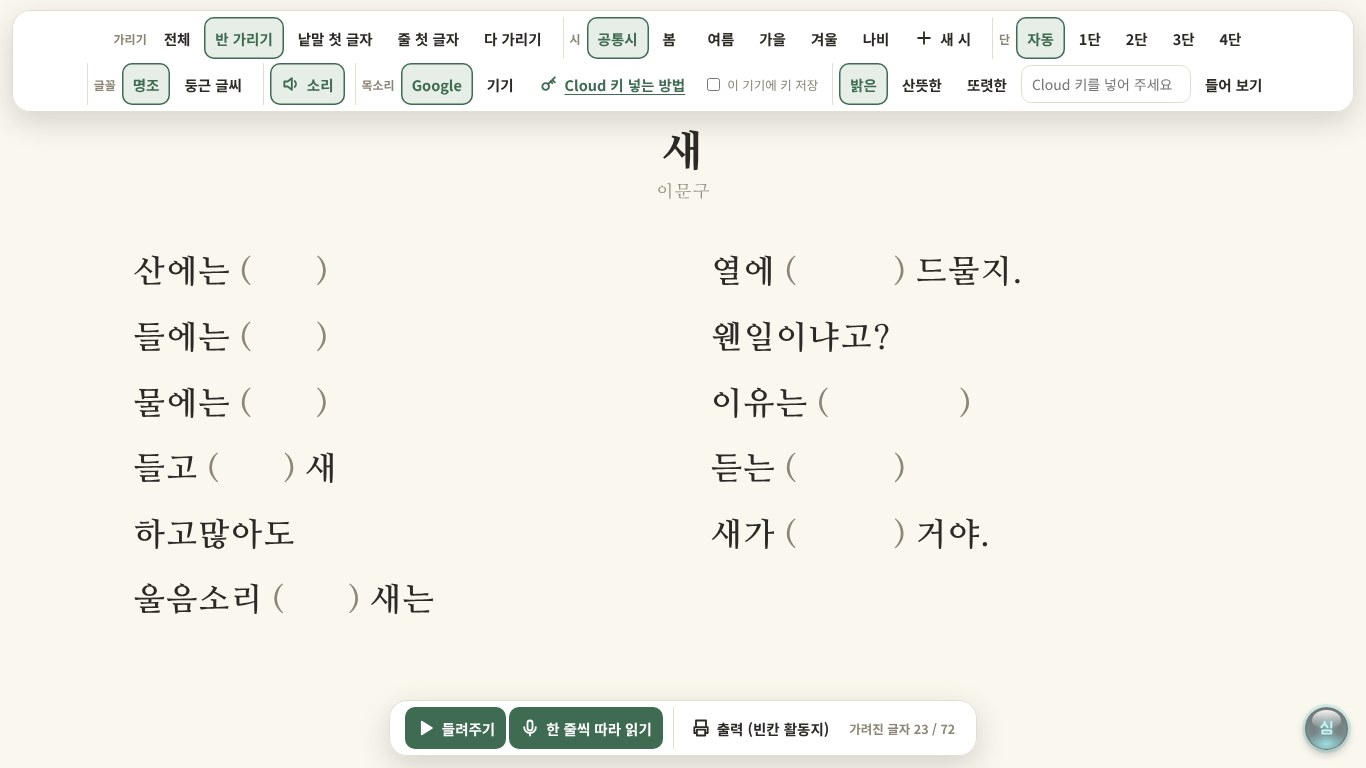
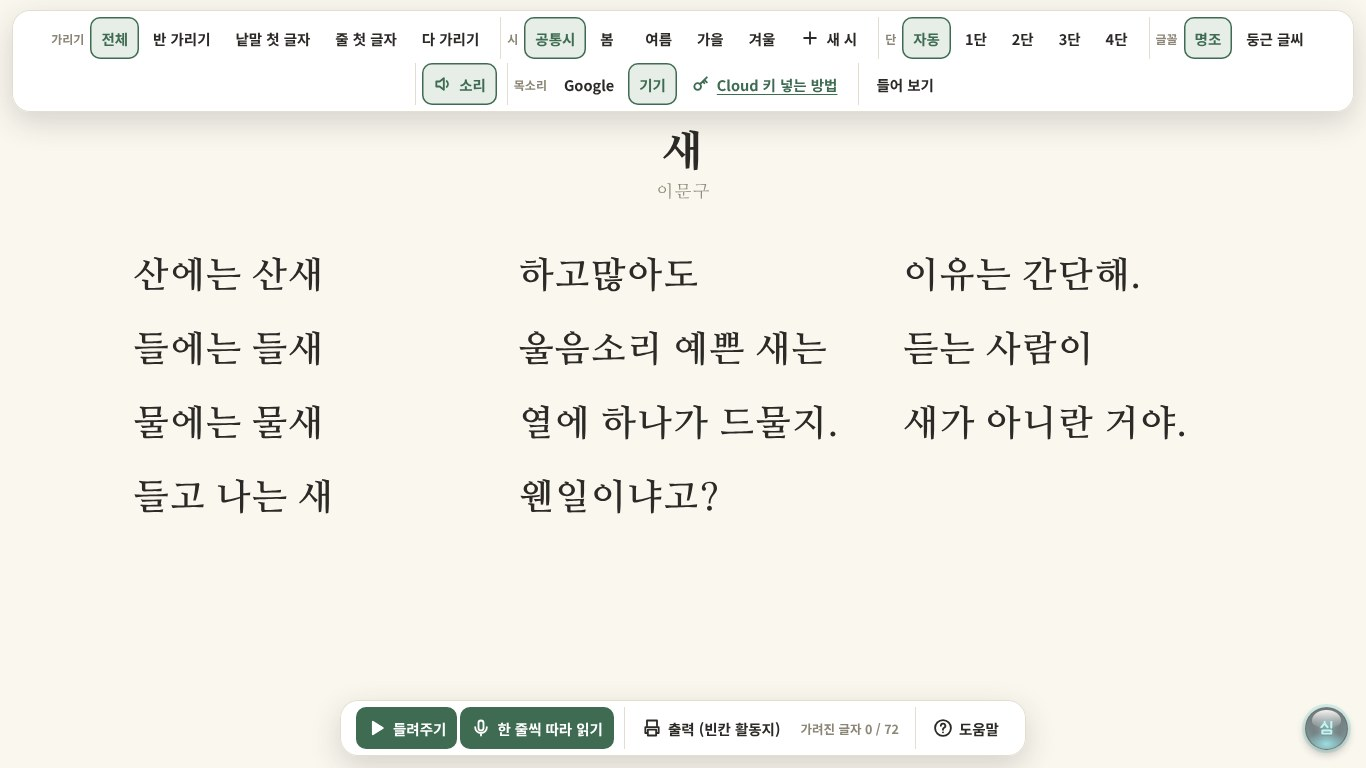
Add files via upload

diff --git a/004/poem-recite.html b/004/poem-recite.html
@@ -139,6 +139,20 @@ body.admin #adminBtn{opacity:.6;border-color:rgba(10,20,26,.8);
   #printArea .pline{line-height:2.1}
   #printArea .reading,#printArea .echo{background:none;box-shadow:none}
 }
+/* ---------- 도움말: 말풍선 둘러보기 ---------- */
+#tour{position:fixed;inset:0;z-index:70;display:none}
+#tour.show{display:block}
+#tourHole{position:fixed;border-radius:14px;box-shadow:0 0 0 9999px rgba(43,42,38,.55);transition:all .25s ease;pointer-events:none}
+#tourTip{position:fixed;width:min(340px,calc(100% - 24px));background:#fff;color:var(--ink);border-radius:16px;box-shadow:0 14px 40px rgba(0,0,0,.28);padding:16px 18px 12px;transition:top .25s ease,left .25s ease;font-family:var(--f-body)}
+#tourTip::before{content:"";position:absolute;left:var(--ax,40px);width:16px;height:16px;background:#fff;transform:rotate(45deg)}
+#tourTip.below::before{top:-7px} #tourTip.above::before{bottom:-7px}
+#tourTip h4{margin:0 0 6px;font-size:16px;font-weight:800;color:var(--accent)}
+#tourTip p{margin:0;font-size:14.5px;line-height:1.6}
+.tour-foot{display:flex;align-items:center;justify-content:space-between;margin-top:12px}
+.tour-foot span{font-size:12.5px;color:var(--ink-soft);font-weight:700}
+.tour-foot div{display:flex;gap:6px}
+.tour-foot button{border:0;border-radius:10px;min-height:40px;padding:6px 14px;font-weight:700;font-size:14px;background:var(--paper);color:var(--ink)}
+.tour-foot button.next{background:var(--accent);color:#fff}
 @media (prefers-reduced-motion:reduce){*{transition:none!important}}
 /* ---------- 빠뜨린 곳 알려 주기: 빨간 테두리 스포트라이트 + 말풍선 (번쩍임 없음) ---------- */
 #spot{position:fixed;z-index:90;pointer-events:none;border-radius:14px;display:none;box-shadow:0 0 0 4px #E5484D,0 0 0 9999px rgba(15,20,28,.45);transition:left .2s ease,top .2s ease,width .2s ease,height .2s ease}
@@ -162,6 +176,8 @@ body.admin #adminBtn{opacity:.6;border-color:rgba(10,20,26,.8);
 
 <div class="dock" id="dockTop"></div>
 <div class="dock" id="dockBot"></div>
+<div id="tour"><div id="tourHole"></div><div id="tourTip" class="below"><h4 id="tourTitle"></h4><p id="tourText"></p>
+  <div class="tour-foot"><span id="tourStep"></span><div><button type="button" id="tourEnd">그만</button><button type="button" class="next" id="tourNext">다음</button></div></div></div></div>
 <button id="adminBtn" type="button" aria-label="관리"><span class="ab-label" id="abLabel">charum</span></button>
 
 <div class="modal-back" id="modalBack">
@@ -222,7 +238,8 @@ const ICON={
   sndOff:'<svg class="ic" viewBox="0 0 24 24"><path d="M4 9h4l5-4v14l-5-4H4z"/><path d="M17 9.5l5 5M22 9.5l-5 5"/></svg>',
   gear:'<svg class="ic" viewBox="0 0 24 24"><path d="M4 7h10M18 7h2M4 17h4M12 17h8"/><circle cx="16" cy="7" r="2"/><circle cx="10" cy="17" r="2"/></svg>',
   key:'<svg class="ic" viewBox="0 0 24 24"><circle cx="8" cy="15" r="4"/><path d="M11 12l8-8M16 7l3 3M14 9l2 2"/></svg>',
-  plus:'<svg class="ic" viewBox="0 0 24 24"><path d="M12 5v14M5 12h14"/></svg>'
+  plus:'<svg class="ic" viewBox="0 0 24 24"><path d="M12 5v14M5 12h14"/></svg>',
+  q:'<svg class="ic" viewBox="0 0 24 24"><circle cx="12" cy="12" r="9.5"/><path d="M9.4 9.4a2.7 2.7 0 1 1 3.7 2.5c-.7.3-1.1.9-1.1 1.7v.5M12 17.2h.01"/></svg>'
 };
 
 /* ================= 상태 ================= */
@@ -438,13 +455,13 @@ function setAdmin(on){
 function renderDocks(){
   const b=(act,label,pressed,extra='')=>`<button type="button" data-a="${act}" ${pressed!=null?`aria-pressed="${pressed}"`:''} ${extra}>${label}</button>`;
   $('dockTop').innerHTML=
-    `<div class="g"><span class="lbl">가리기</span>${STAGES.map(s=>b('stage:'+s.k,s.label,S.stage===s.k)).join('')}</div>`+
-    `<div class="g"><span class="lbl">시</span>${poemList().map(p=>b('poem:'+p.key,esc(p.label==='내가 입력'?p.title:p.label),S.active===p.key,`title="${esc(p.title)}"`)).join('')}${b('new',ICON.plus+'새 시')}</div>`+
-    `<div class="g"><span class="lbl">단</span>${b('cols:auto','자동',S.cols===null)}${[1,2,3,4].map(n=>b('cols:'+n,n+'단',S.cols===n)).join('')}</div>`+
-    `<div class="g"><span class="lbl">글꼴</span>${b('font:myeongjo','명조',S.font==='myeongjo')}${b('font:easy','둥근 글씨',S.font==='easy')}</div>`+
+    `<div class="g" id="gStage"><span class="lbl">가리기</span>${STAGES.map(s=>b('stage:'+s.k,s.label,S.stage===s.k)).join('')}</div>`+
+    `<div class="g" id="gPoem"><span class="lbl">시</span>${poemList().map(p=>b('poem:'+p.key,esc(p.label==='내가 입력'?p.title:p.label),S.active===p.key,`title="${esc(p.title)}"`)).join('')}${b('new',ICON.plus+'새 시')}</div>`+
+    `<div class="g" id="gCols"><span class="lbl">단</span>${b('cols:auto','자동',S.cols===null)}${[1,2,3,4].map(n=>b('cols:'+n,n+'단',S.cols===n)).join('')}</div>`+
+    `<div class="g" id="gFont"><span class="lbl">글꼴</span>${b('font:myeongjo','명조',S.font==='myeongjo')}${b('font:easy','둥근 글씨',S.font==='easy')}</div>`+
     `<div class="g">${b('sound',(S.sound?ICON.sndOn:ICON.sndOff)+(S.sound?'소리':'소리 끔'),S.sound)}</div>`+
     /* 목소리: 수업 내내 한 목소리. Google 음성은 Cloud 키가 있어야 읽어 줌 */
-    `<div class="g"><span class="lbl">목소리</span>${b('engine:cloud','Google',S.engine==='cloud')}${b('engine:device','기기',S.engine==='device')}<a class="help" href="cloud-key.html" target="_blank" rel="noopener">${ICON.key}Cloud 키 넣는 방법</a>${S.engine==='cloud'?`<label class="small"><input type="checkbox" id="dockSave" ${S.saveCloud?'checked':''}>이 기기에 키 저장</label>`:''}</div>`+
+    `<div class="g" id="gVoice"><span class="lbl">목소리</span>${b('engine:cloud','Google',S.engine==='cloud')}${b('engine:device','기기',S.engine==='device')}<a class="help" href="cloud-key.html" target="_blank" rel="noopener">${ICON.key}Cloud 키 넣는 방법</a>${S.engine==='cloud'?`<label class="small"><input type="checkbox" id="dockSave" ${S.saveCloud?'checked':''}>이 기기에 키 저장</label>`:''}</div>`+
     `<div class="g">`+
       (S.engine==='cloud'?`${[['Leda','밝은'],['Aoede','산뜻한'],['Kore','또렷한']].map(([k,l])=>b('timbre:'+k,l,S.timbre===k)).join('')}
         <input class="key" id="dockKey" type="password" autocomplete="off" placeholder="Cloud 키를 넣어 주세요" value="${esc(S.cloudKey)}" aria-label="Google Cloud 키">`:'')+
@@ -457,7 +474,8 @@ function renderDocks(){
   }
   $('dockBot').innerHTML=
     `<div class="g">${b('read',ICON.play+'들려주기',PB.on&&PB.mode==='all','class="main"')}${b('echo',ICON.echo+'한 줄씩 따라 읽기',PB.on&&PB.mode==='echo','class="main"')}${PB.on?b('stopread',ICON.stop+'멈춤'):''}</div>`+
-    `<div class="g">${b('print',ICON.print+'출력 (빈칸 활동지)')}<span class="count" id="hiddenCounter"></span></div>`;
+    `<div class="g">${b('print',ICON.print+'출력 (빈칸 활동지)')}<span class="count" id="hiddenCounter"></span></div>`+
+    `<div class="g">${b('tour',ICON.q+'도움말')}</div>`;
   updateCounter();
   requestAnimationFrame(()=>{
     document.body.style.setProperty('--dockTopH',($('dockTop').getBoundingClientRect().bottom+14)+'px');
@@ -482,6 +500,7 @@ function onDock(e){
   if(a==='echo') startReading('echo');
   if(a==='stopread') stopReading();
   if(a==='print') printSheet();
+  if(a==='tour'){ startTour(); return; }
   renderDocks();
 }
 $('dockTop').addEventListener('click',onDock); $('dockBot').addEventListener('click',onDock);
@@ -729,6 +748,48 @@ function hideSpot(){ SPOT.el=null; SPOT.sel=''; document.getElementById('spot').
 document.addEventListener('pointerdown',()=>{ if(SPOT.el) hideSpot(); },true);
 window.addEventListener('resize',()=>{ if(SPOT.el) placeSpot(); });
 document.addEventListener('scroll',()=>{ if(SPOT.el) placeSpot(); },true);
+
+/* ================= 도움말: 교사 메뉴를 말풍선으로 하나씩 ================= */
+const TOUR_STEPS=[
+  {el:'#gStage', t:'가리기', x:'한꺼번에 지우지 않고 조금씩 지워 가며 외워요. 전체 → 반 가리기 → 낱말 첫 글자 → 줄 첫 글자 → 다 가리기.'},
+  {el:'#gPoem', t:'시', x:'공통시와 계절시 가운데 골라요. "+ 새 시"로 직접 입력하거나 .txt 파일을 불러와요.'},
+  {el:'#gCols', t:'단', x:'시를 몇 단으로 나눠 보일지 정해요. "자동"은 화면에 가장 크게 보이는 쪽을 골라요.'},
+  {el:'#gFont', t:'글꼴', x:'명조는 시다운 글꼴, 둥근 글씨는 글자를 처음 읽는 학생에게 좋아요.'},
+  {el:'#dockTop [data-a="sound"]', t:'소리', x:'읽어 주는 목소리를 켜고 꺼요.'},
+  {el:'#gVoice', t:'목소리', x:'"기기"는 키 없이 바로 나오고, "Google"은 더 자연스러워요. Google은 Cloud 키가 필요해요(옆 "Cloud 키 넣는 방법").'},
+  {el:'#dockTop [data-a="vtest"]', t:'들어 보기', x:'고른 목소리로 미리 들어 봐요.'},
+  {el:'#dockBot [data-a="read"]', t:'들려주기', x:'제목 → 작가 → 본문을 이어서 읽고, 지금 읽는 줄에 옅은 바탕이 생겨요. 가린 글자도 소리로는 다 읽어 줘요.'},
+  {el:'#dockBot [data-a="echo"]', t:'한 줄씩 따라 읽기', x:'한 줄을 읽어 준 뒤 "따라 해요"가 나오고, 학생이 따라 말할 시간을 준 다음 저절로 다음 줄로 가요.'},
+  {el:'#dockBot [data-a="print"]', t:'출력', x:'지금 가린 모습 그대로 이름 칸과 함께 A4 한 장에 인쇄해요.'},
+  {el:'#adminBtn', t:'관리 버튼', x:'누르면 이 메뉴가 열리고, 다시 한 번 누르면 닫히며 전체 화면 수업이 이어져요.'}
+];
+const TOUR={on:false,i:0,list:[]};
+function startTour(){
+  TOUR.list=TOUR_STEPS.filter(s=>document.querySelector(s.el)); TOUR.i=0; TOUR.on=true;
+  $('tour').classList.add('show'); showTourStep();
+}
+function showTourStep(){
+  const s=TOUR.list[TOUR.i]; if(!s) return endTour();
+  $('tourTitle').textContent=s.t; $('tourText').textContent=s.x;
+  $('tourStep').textContent=(TOUR.i+1)+' / '+TOUR.list.length;
+  $('tourNext').textContent=TOUR.i===TOUR.list.length-1?'끝':'다음';
+  placeTour();
+}
+function placeTour(){
+  const s=TOUR.list[TOUR.i]; if(!s) return; const el=document.querySelector(s.el); if(!el) return;
+  const r=el.getBoundingClientRect(), pad=6, hole=$('tourHole'), tip=$('tourTip');
+  Object.assign(hole.style,{left:(r.left-pad)+'px',top:(r.top-pad)+'px',width:(r.width+pad*2)+'px',height:(r.height+pad*2)+'px'});
+  const tw=tip.offsetWidth, th=tip.offsetHeight;
+  const below=r.bottom+pad+14+th<innerHeight-8 || r.top-pad-14-th<8;
+  const top=below?r.bottom+pad+14:r.top-pad-14-th, left=Math.min(Math.max(12,r.left+r.width/2-tw/2),innerWidth-tw-12);
+  tip.className=below?'below':'above'; tip.style.top=top+'px'; tip.style.left=left+'px';
+  tip.style.setProperty('--ax',Math.min(tw-28,Math.max(12,r.left+r.width/2-left-8))+'px');
+}
+function endTour(){ TOUR.on=false; $('tour').classList.remove('show'); }
+$('tourNext').addEventListener('click',()=>{ TOUR.i++; showTourStep(); });
+$('tourEnd').addEventListener('click',endTour);
+document.addEventListener('keydown',e=>{ if(TOUR.on&&e.key==='Escape') endTour(); });
+window.addEventListener('resize',()=>{ if(TOUR.on) placeTour(); });
 </script>
 </body>
 </html>

diff --git a/004/poem-recite_manual.html b/004/poem-recite_manual.html
@@ -14,7 +14,7 @@
 </ol>
 <img src="https://shim-sung-hyun.github.io/web_app/004/poem-recite01.jpg" alt="첫 화면" style="display:block;width:100%;height:auto;border:1px solid #E3DED0;border-radius:8px;margin:0 0 10px;">
 <img src="https://shim-sung-hyun.github.io/web_app/004/poem-recite02.jpg" alt="관리 메뉴" style="display:block;width:100%;height:auto;border:1px solid #E3DED0;border-radius:8px;">
-<p style="margin:6px 0 16px;font-size:14px;color:#8B8676;">▲ 첫 화면과, 관리 버튼을 누른 모습 — 위쪽: 가리기 단계 · 시 · 단 · 글꼴 · 소리 · 목소리(Cloud 키 넣는 방법) / 아래쪽: 들려주기 · 한 줄씩 따라 읽기 · 출력</p>
+<p style="margin:6px 0 16px;font-size:14px;color:#8B8676;">▲ 첫 화면과, 관리 버튼을 누른 모습 — 위쪽: 가리기 단계 · 시 · 단 · 글꼴 · 소리 · 목소리(Cloud 키 넣는 방법) / 아래쪽: 들려주기 · 한 줄씩 따라 읽기 · 출력 · <b>도움말</b>(메뉴 단추마다 말풍선으로 설명)</p>
 
 <h3 style="margin:28px 0 8px;padding-left:10px;border-left:5px solid #3F6B52;font-size:20px;">관리 메뉴</h3>
 <ul style="margin:0 0 12px;padding-left:24px;">
